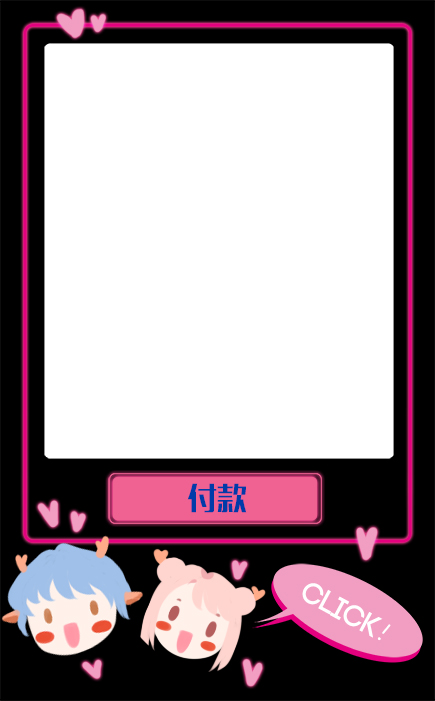
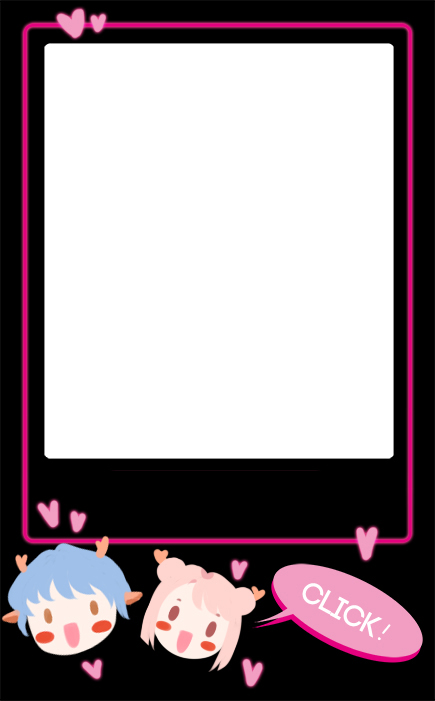
合并代码

Changed region(s): [[0.2391, 0.6591, 0.7471, 0.7489]]

diff --git a/danmu_bms_api/src/main/resources/static/htm/love/biaobai.html b/danmu_bms_api/src/main/resources/static/htm/love/biaobai.html
@@ -16,11 +16,11 @@
     <image id="bg" src="/images/wechat/love/biaobai/biaobai1.jpg" style="position:absolute;height:100%;width:100%;overflow:hidden;"/>
     <div style="position:absolute;top:73%;width:100%;background:url('/images/wechat/love/biaobai/input.png') no-repeat;background-position:center;background-size:95% 100%;">
         <div style="margin-top:5px;text-align:center;">
-            <input type="text" style="width:35%;border:0px;background:none;font-size:21px;color:#44BBEE" value="昵称" onfocus="javascript:if(this.value=='昵称'){this.value=''};" onblur="javascript:if(this.value==''){this.value='昵称'};" maxlength="4"/>
-            <input type="text" style="margin-left:10px;width:35%;border:0px;background:none;font-size:21px;color:#44BBEE" value="昵称" onfocus="javascript:if(this.value=='昵称'){this.value=''};" onblur="javascript:if(this.value==''){this.value='昵称'};" maxlength="4"/>
+            <input id="name" type="text" style="width:35%;border:0px;background:none;font-size:21px;color:#44BBEE" value="昵称" onfocus="javascript:if(this.value=='昵称'){this.value=''};" onblur="javascript:if(this.value==''){this.value='昵称'};" maxlength="4"/>
+            <input id="toName" type="text" style="margin-left:10px;width:35%;border:0px;background:none;font-size:21px;color:#44BBEE" value="昵称" onfocus="javascript:if(this.value=='昵称'){this.value=''};" onblur="javascript:if(this.value==''){this.value='昵称'};" maxlength="4"/>
         </div>
         <div>
-            <input type="text" style="width:68%;height:1.5em;font-size:16px;color:#44BBEE;border:0px;background:none;margin-left:40px;" value="请输入你的情话" onfocus="javascript:if(this.value=='请输入你的情话'){this.value=''};" onblur="javascript:if(this.value==''){this.value='请输入你的情话'};" maxlength="16"／>
+            <input id="msg" type="text" style="width:68%;height:1.5em;font-size:16px;color:#44BBEE;border:0px;background:none;margin-left:40px;" value="请输入你的情话" onfocus="javascript:if(this.value=='请输入你的情话'){this.value=''};" onblur="javascript:if(this.value==''){this.value='请输入你的情话'};" maxlength="16"／>
         </div>
 
         <div style="text-align:right;margin-bottom:8px;">
@@ -35,7 +35,7 @@
         var url = location.href;
         var bb = '';
         if(url.indexOf('bb=')!=-1){
-           bb = url.substr(url.indexOf('=')+1);
+           bb = url.substring(url.indexOf('bb=')+3,url.indexOf('bb=')+4);
            if( bb == 1){
             $('#bg').attr('src','/images/wechat/love/biaobai/biaobai1.jpg');
            }else if( bb ==2 ){
@@ -48,12 +48,43 @@
             $('#bg').attr('src','/images/wechat/love/biaobai/biaobai5.jpg');
            }
            _bb = bb;
+           console.log("bb="+_bb);
         }
     }
 
     var openNext = function(){
-        window.location.href='/upload/h5html/biaobaipay.html?bb='+_bb;
+        if( $('#name').val() == '昵称' || $('#name').val().trim() == ''){
+            alert('请填写昵称');
+            return;
+        }
+        if( $('#toName').val() == '昵称'|| $('#toName').val().trim() == '' ){
+            alert('请填写昵称');
+            return;
+        }
+        if( $('#msg').val() == '请输入你的情话' || $('#msg').val().trim() == ''){
+            alert('请填写情话');
+            return;
+        }
+        var object = {
+            name:$('#name').val(),
+            toName:$('#toName').val(),
+            msg:$('#msg').val(),
+            loveType:_bb,
+            openId:'${openId}'
+        }
+        $.ajax({
+          url: "/wechat/lovePayMsg",
+          type: "post",
+          data: object
+        }).done(function (data) {
+             if(data.result == 200){
+                  window.location.href='https://open.weixin.qq.com/connect/oauth2/authorize?appid=wx0dddd556a76e7248&redirect_uri=http://test.party-time.cn/wechat/lovePayIndex?lovePayId='+data.lovePayId+'&response_type=code&scope=snsapi_base&state=STATE#wechat_redirect'
+             }else{
+                  alert('表白失败');
+             }
+        });
     }
+
     selectBiaobai();
 </script>
 </body>

diff --git a/danmu_bms_api/src/main/resources/static/htm/love/biaobaipay.html b/danmu_bms_api/src/main/resources/static/htm/love/biaobaipay.html
@@ -13,29 +13,66 @@
 </head>
 <body>
 <div style="position:absolute;left:0;right:0;top:0;bottom:0;overflow:hidden;z-index:3;">
-    <image src="/images/wechat/love/biaobai/pay.jpg" style="position:absolute;height:100%;width:100%;overflow:hidden;"/>
+    <image id="bg" src="/images/wechat/love/biaobai/pay.jpg" style="position:absolute;height:100%;width:100%;overflow:hidden;"/>
     <div style="position:absolute;text-align:center;width:100%;top:10%;" id="money">
 
     </div>
+    <div style="position:absolute;bottom:23%;width:100%;text-align:center;">
+        <image src="/images/wechat/love/biaobai/pay_btn.png" style="width:60%" onclick="wechatPay()"/>
+    </div>
+
 </div>
+<script src="http://res.wx.qq.com/open/js/jweixin-1.1.0.js"></script>
 <script>
+    wx.config({
+          debug: false,
+          appId: '${wxJsConfig.appId}',
+          timestamp: ${wxJsConfig.timestamp},
+          nonceStr: '${wxJsConfig.nonceStr}',
+          signature: '${wxJsConfig.signature}',
+          jsApiList: [
+            'checkJsApi',
+            'chooseWXPay'
+          ]
+    });
+    var wechatPay = function(attach){
+          // 注意：此 Demo 使用 2.7 版本支付接口实现，建议使用此接口时参考微信支付相关最新文档。
+          var timestamp=new Date().getTime()
+          $.ajax({
+              url: "/wechat/lovepay?timestamp="+timestamp+"&nonceStr=${wxJsConfig.nonceStr}&openId=${opendId}&timestamp=${wxJsConfig.timestamp}&lovePayId=${lovePayId}&attach="+attach,
+              type: "get"
+          }).done(function (data) {
+                 if(data.result == 200){
+                      wx.chooseWXPay({
+                            timestamp: data.timeStamp,
+                            nonceStr: data.nonceStr,
+                            package: data.packageStr,
+                            signType: data.signType, // 注意：新版支付接口使用 MD5 加密
+                            paySign: data.paySign,
+                            success: function(res){
+                                window.location.href="https://open.weixin.qq.com/connect/oauth2/authorize?appid=${wxJsConfig.appId}&redirect_uri=http://www.party-time.cn/wechat/payIndex&response_type=code&scope=snsapi_base&state=STATE#wechat_redirect";
+                                alert('支付成功');
+                            }
+                      });
+                 }else{
+                      alert('本功能仅在部分地区可以使用');
+                 }
+            });
+    }
+
     var payMoney = function(){
-        var url = location.href;
-        var bb = '';
-        if(url.indexOf('bb=')!=-1){
-           bb = url.substr(url.indexOf('=')+1);
-           if( bb == 1){
-            $('#money').html('<span style="font-size:150px">5.21</span><span style="font-size:40px">元</span>');
-           }else if( bb ==2 ){
-            $('#money').html('<span style="font-size:190px">9.9</span><span style="font-size:40px">元</span>');
-           }else if( bb ==3 ){
-            $('#money').html('<span style="font-size:190px">21</span><span style="font-size:40px">元</span>');
-           }else if( bb ==4 ){
-            $('#money').html('<span style="font-size:150px">52.1</span><span style="font-size:40px">元</span>');
-           }else if( bb ==5 ){
-            $('#money').html('<span style="font-size:190px">99</span><span style="font-size:40px">元</span>');
-           }
-        }
+       var bb = ${loveType};
+       if( bb == 1){
+        $('#bg').attr('src','/images/wechat/love/biaobai/1.png');
+       }else if( bb ==2 ){
+        $('#bg').attr('src','/images/wechat/love/biaobai/2.png');
+       }else if( bb ==3 ){
+        $('#bg').attr('src','/images/wechat/love/biaobai/3.png');
+       }else if( bb ==4 ){
+        $('#bg').attr('src','/images/wechat/love/biaobai/4.png');
+       }else if( bb ==5 ){
+        $('#bg').attr('src','/images/wechat/love/biaobai/5.png');
+       }
     }
     payMoney();
 </script>

diff --git a/danmu_bms_api/src/main/resources/static/htm/love/index.html b/danmu_bms_api/src/main/resources/static/htm/love/index.html
@@ -55,7 +55,7 @@
     }
     var openView = function(obj){
         var imgSrcs = $(obj).attr('src').split('.');
-        window.location.href="/upload/h5html/biaobai.html?bb="+imgSrcs[0].substr(imgSrcs[0].length-1,imgSrcs[0].length);
+        window.location.href="https://open.weixin.qq.com/connect/oauth2/authorize?appid=wx0dddd556a76e7248&redirect_uri=http://test.party-time.cn/wechat/h5temp/biaobai?bb="+imgSrcs[0].substr(imgSrcs[0].length-1,imgSrcs[0].length)+"&response_type=code&scope=snsapi_base&state=STATE#wechat_redirect";
     }
 </script>
 </body>

diff --git a/danmu_data_rpc_server/src/main/java/cn/partytime/logicService/CmdLogicService.java b/danmu_data_rpc_server/src/main/java/cn/partytime/logicService/CmdLogicService.java
@@ -116,6 +116,54 @@ public class CmdLogicService {
         return cmdTempAllData;
     }
 
+    public CmdTempAllData findCmdTempAllDataByKey(String key){
+        CmdTempAllData cmdTempAllData = new CmdTempAllData();
+        CmdTemp cmdTemp = cmdTempService.findByKey(key);
+        if( null != cmdTemp){
+            cmdTempAllData.setId(cmdTemp.getId());
+            cmdTempAllData.setKey(cmdTemp.getKey());
+            cmdTempAllData.setName(cmdTemp.getName());
+            cmdTempAllData.setIsSendH5(cmdTemp.getIsSendH5());
+            cmdTempAllData.setIsInDanmuLib(cmdTemp.getIsInDanmuLib());
+        }
+        List<CmdJsonParam> cmdJsonParamList = cmdJsonParamService.findByCmdJsonTempId(cmdTemp.getId());
+        if( null != cmdJsonParamList){
+            List<CmdTempComponentData> cmdTempComponentDataList = new ArrayList<>();
+            for(CmdJsonParam cmdJsonParam : cmdJsonParamList){
+                CmdComponent cmdComponent = cmdJsonComponentService.findById(cmdJsonParam.getComponentId());
+                CmdTempComponentData cmdTempComponentData = new CmdTempComponentData();
+                cmdTempComponentData.setType(cmdJsonParam.getType());
+                cmdTempComponentData.setComponentId(cmdJsonParam.getComponentId());
+                cmdTempComponentData.setCheckRule(cmdJsonParam.getCheckRule());
+                cmdTempComponentData.setDefaultValue(cmdJsonParam.getDefaultValue());
+                cmdTempComponentData.setIsCheck(cmdJsonParam.getIsCheck());
+                cmdTempComponentData.setKey(cmdJsonParam.getKey());
+                cmdTempComponentData.setSort(cmdJsonParam.getSort());
+                cmdTempComponentData.setId(cmdJsonParam.getId());
+                if( null != cmdComponent){
+                    cmdTempComponentData.setComponentType(cmdComponent.getType());
+                }
+                if(!StringUtils.isEmpty(cmdJsonParam.getCmdJsonTempId()) && cmdJsonParam.getCmdJsonTempId().length() > 1){
+                    List<CmdComponentValue> cmdComponentValueList =cmdComponentValueService.findByComponentId(cmdJsonParam.getComponentId());
+                    List<CmdComponentValueModel> cmdComponentValueModelList = new ArrayList<>();
+                    for(CmdComponentValue cmdComponentValue:cmdComponentValueList){
+                        CmdComponentValueModel cmdComponentValueModel = new CmdComponentValueModel();
+                        BeanUtils.copyProperties(cmdComponentValue,cmdComponentValueModel);
+                        cmdComponentValueModelList.add(cmdComponentValueModel);
+                    }
+                    cmdTempComponentData.setCmdComponentValueList(cmdComponentValueModelList);
+                }
+
+                cmdTempComponentDataList.add(cmdTempComponentData);
+
+            }
+
+            cmdTempAllData.setCmdTempComponentDataList(cmdTempComponentDataList);
+
+        }
+        return cmdTempAllData;
+    }
+
 }
 
 

diff --git a/danmu_bms_api/src/main/java/cn/partytime/service/BmsPartyService.java b/danmu_bms_api/src/main/java/cn/partytime/service/BmsPartyService.java
@@ -34,7 +34,7 @@ public class BmsPartyService {
     private static final Logger logger = LoggerFactory.getLogger(BmsPartyService.class);
 
     @Autowired
-    private RpcPartyService rpcPartyService;
+    private RpcPartyService partyLogicService;
 
     @Autowired
     private DanmuAddressService danmuAddressService;
@@ -64,14 +64,14 @@ public class BmsPartyService {
             WechatUserInfo wechatUserInfo = wechatUserInfoService.findByWechatId(wechatUser.getId());
             String userId = wechatUser.getUserId();
             logger.info("经度:{},纬度:{},用户编号:{}",wechatUserInfo.getLastLongitude(),wechatUserInfo.getLastLatitude(),userId);
-            PartyLogicModel partyLogicModel =rpcPartyService.findPartyByLonLat(wechatUserInfo.getLastLongitude(), wechatUserInfo.getLastLatitude());
+            PartyLogicModel partyLogicModel =partyLogicService.findPartyByLonLat(wechatUserInfo.getLastLongitude(), wechatUserInfo.getLastLatitude());
             if (partyLogicModel == null) {
                 logger.info("没有活动");
                 return null;
             }
             return partyLogicModel;
         } catch (Exception e) {
-            logger.error("查询当前活动:" + e.getMessage());
+            logger.error("查询当前活动:{}" , e);
             return null;
         }
     }
@@ -83,7 +83,7 @@ public class BmsPartyService {
      * type 1：活动  2：电影
      *
      */
-    public PageResultModel findAllByPage(Integer pageNo, Integer pageSize , Integer type, Integer status){
+    public PageResultModel findAllByPage(Integer pageNo, Integer pageSize ,Integer type,Integer status){
         Page<Party> partyPage = null;
         if( type == -1){
             partyPage = partyService.findAllPageByStatus(pageNo,pageSize,status);

diff --git a/danmu_bms_api/src/main/java/cn/partytime/controller/danmucmd/CmdJsonTempController.java b/danmu_bms_api/src/main/java/cn/partytime/controller/danmucmd/CmdJsonTempController.java
@@ -55,14 +55,14 @@ public class CmdJsonTempController {
             return restResultModel;
         }
         if(StringUtils.isEmpty(cmdTempJson.getCmdTempId())){
-            List<CmdTemp> cmdTempList = cmdTempService.findByKey(cmdTempJson.getKey());
-            if( null != cmdTempList && cmdTempList.size() > 0){
+            Integer count = cmdTempService.countByKey(cmdTempJson.getKey());
+            if( count > 0){
                 restResultModel.setResult(501);
                 return restResultModel;
             }
         }else{
-            List<CmdTemp> cmdTempList = cmdTempService.findByKey(cmdTempJson.getKey());
-            if( null != cmdTempList && cmdTempList.size() > 1){
+            Integer count = cmdTempService.countByKey(cmdTempJson.getKey());
+            if( count > 1){
                 restResultModel.setResult(501);
                 return restResultModel;
             }
@@ -86,8 +86,8 @@ public class CmdJsonTempController {
     @RequestMapping(value = "/checkKey", method = RequestMethod.GET)
     public RestResultModel checkKey(String key){
         RestResultModel restResultModel = new RestResultModel();
-        List<CmdTemp> cmdTempList = cmdTempService.findByKey(key);
-        if( null != cmdTempList && cmdTempList.size() > 0){
+        Integer count = cmdTempService.countByKey(key);
+        if( count > 0){
             restResultModel.setResult(501);
             return restResultModel;
         }else {

diff --git a/danmu_bms_api/src/main/java/cn/partytime/service/cms/BmsCmsService.java b/danmu_bms_api/src/main/java/cn/partytime/service/cms/BmsCmsService.java
@@ -1,5 +1,6 @@
 package cn.partytime.service.cms;
 
+import cn.partytime.model.RestResultModel;
 import cn.partytime.model.cms.*;
 import cn.partytime.model.manager.ResourceFile;
 import cn.partytime.model.shop.Item;
@@ -8,6 +9,8 @@ import cn.partytime.service.shop.ItemService;
 import org.springframework.beans.factory.annotation.Autowired;
 import org.springframework.stereotype.Service;
 import org.springframework.util.StringUtils;
+import org.springframework.web.bind.annotation.RequestMapping;
+import org.springframework.web.bind.annotation.RequestMethod;
 
 import java.util.ArrayList;
 import java.util.List;
@@ -101,12 +104,15 @@ public class BmsCmsService {
             if( null == objectIdList){
                 objectIdList = new ArrayList<>();
             }else{
+                List<Item> itemList = new ArrayList<>();
                 for(String objectId:objectIdList){
                     if( objectId.equals(itemId)){
                         return "不能添加相同的商品";
                     }
+                    Item item = itemService.findById(objectId);
+                    itemList.add(item);
                 }
-                if(objectIdList.size() > 4){
+                if(itemList.size() > 4){
                     return "最多只能添加5个商品";
                 }
             }

diff --git a/danmu_bms_api/src/main/java/cn/partytime/controller/AddressController.java b/danmu_bms_api/src/main/java/cn/partytime/controller/AddressController.java
@@ -178,11 +178,13 @@ public class AddressController {
     }
 
     @RequestMapping(value = "/setAddressControle", method = RequestMethod.GET)
-    public RestResultModel setAddressControle(String addressId, String keys){
+    public RestResultModel setAddressControle(String addressId,String keys){
         RestResultModel restResultModel = new RestResultModel();
         Map<String,Integer> map = new HashMap<>();
-        for(String key:keys.split(",")){
-            map.put(key,1);
+        if(!StringUtils.isEmpty(keys)){
+            for(String key:keys.split(",")){
+                map.put(key,1);
+            }
         }
         danmuAddressService.updateControlerStatus(addressId,map);
         restResultModel.setResult(200);

diff --git a/danmu_data_service/src/main/java/cn/partytime/service/danmuCmdJson/CmdTempService.java b/danmu_data_service/src/main/java/cn/partytime/service/danmuCmdJson/CmdTempService.java
@@ -77,7 +77,12 @@ public class CmdTempService {
         return cmdJsonTempRepository.findAll();
     }
 
-    public List<CmdTemp> findByKey(String key){
+    public CmdTemp findByKey(String key){
         return cmdJsonTempRepository.findByKey(key);
     }
+
+    public Integer countByKey(String key){
+        return cmdJsonTempRepository.countByKey(key);
+    }
+
 }

diff --git a/danmu_data_service/src/main/java/cn/partytime/repository/manager/danmuCmdJson/CmdJsonTempRepository.java b/danmu_data_service/src/main/java/cn/partytime/repository/manager/danmuCmdJson/CmdJsonTempRepository.java
@@ -15,7 +15,9 @@ public interface CmdJsonTempRepository extends MongoRepository<CmdTemp,String> {
 
     public List<CmdTemp> findByIdIn(List<String> idList);
 
-    public List<CmdTemp> findByKey(String key);
+    public CmdTemp findByKey(String key);
+
+    public Integer countByKey(String key);
 
 
 }

diff --git a/danmu_common/src/main/java/cn/partytime/common/util/ComponentKeyConst.java b/danmu_common/src/main/java/cn/partytime/common/util/ComponentKeyConst.java
@@ -9,4 +9,6 @@ public class ComponentKeyConst {
 
     //发送礼物的弹幕指令id
     public final static String SEND_GIFT="594ac8590cf20939daa50c13";
+
+    public final static String LOVE="59780ec40cf2af0f9ecfa45c";
 }
